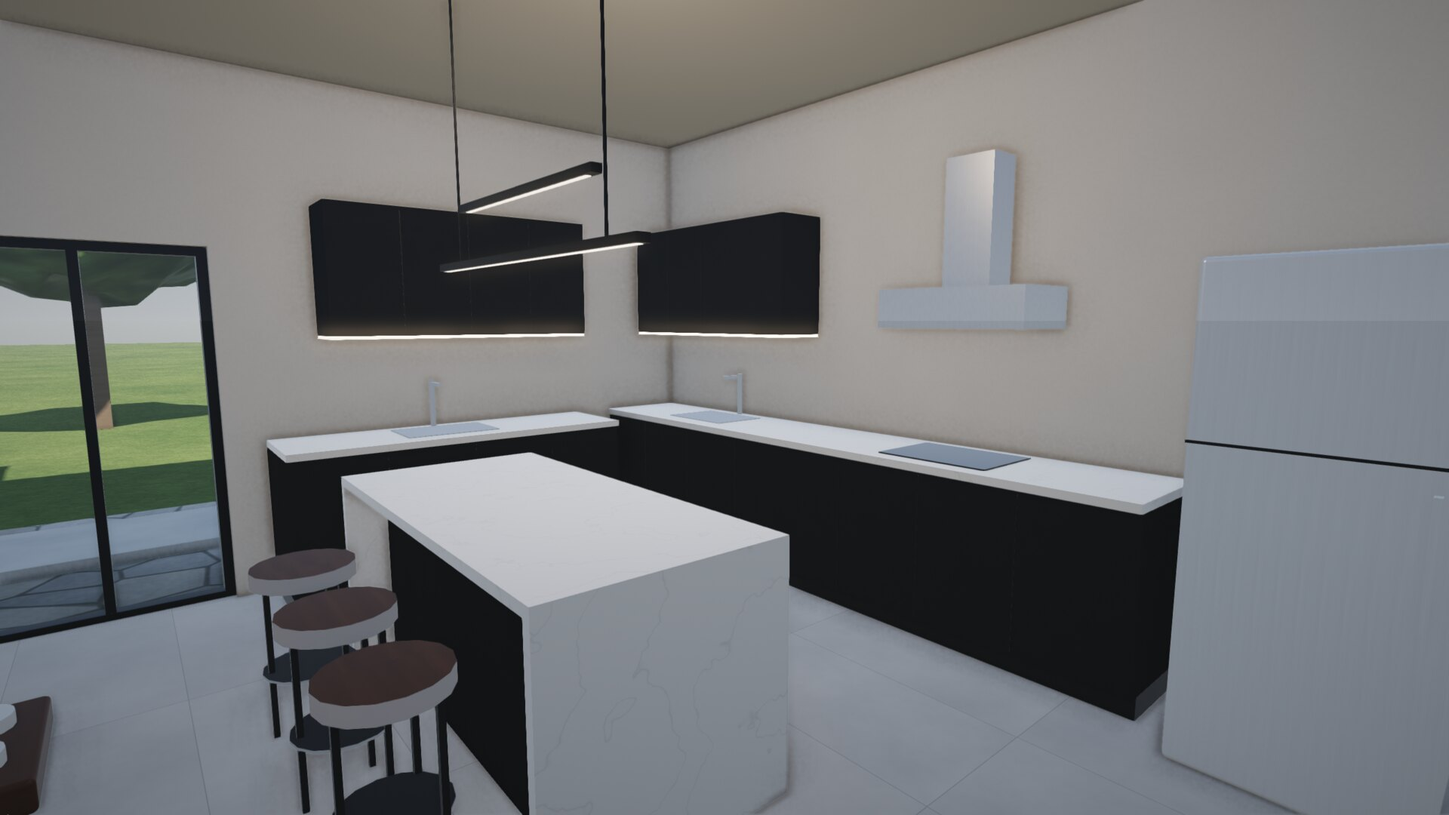
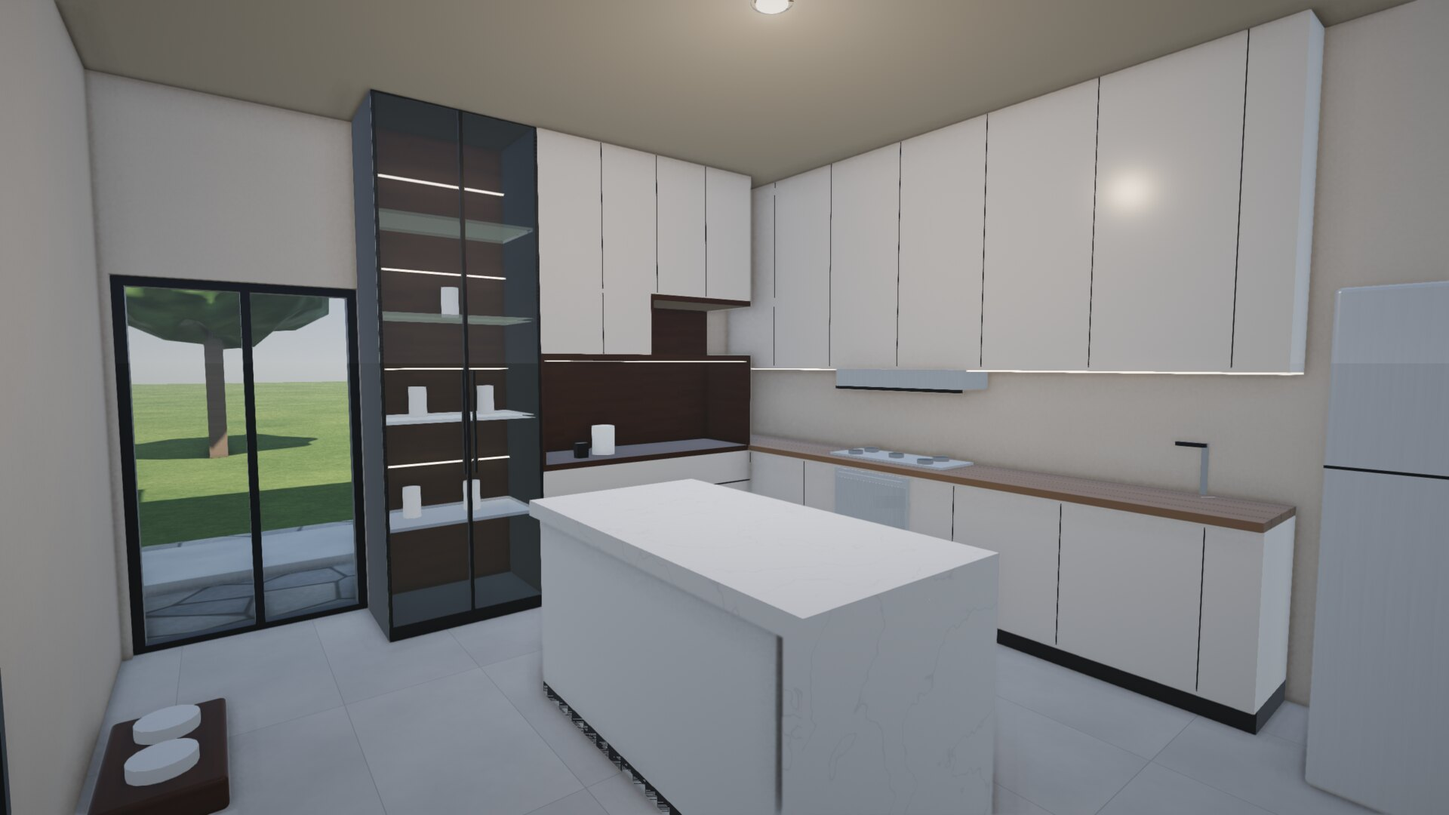
ครัวแบบใหม่โทนครีม: ตู้ชนฝ้า ท็อปโอ๊ค ช่องโชว์วอลนัท ตู้กระจกชา เกาะหินอ่อนน้ำตก + ภาพ งบใหม่
Claude-Session: https://claude.ai/code/session_013i3ffvjiePNLqy5JQb5Coc

diff --git a/ai.html b/ai.html
@@ -19,10 +19,10 @@ details{margin-top:8px;font-size:13.5px;color:#555}details p{line-height:1.5}a.b
 <details><summary>ดูคำสั่ง</summary><p>Transform this 3D render into a photorealistic architectural interior photograph. KEEP EXACTLY the same camera angle, room layout, wall and opening positions, furniture types, positions and proportions, and the same materials and colors — do not add, remove or move any object, do not change the architecture. Only upgrade realism: physically accurate soft natural daylight with global illumination and soft shadows, realistic textures and micro-detail, subtle reflections on glossy surfaces, warm 3000K accent lighting where LED strips exist, natural fabric folds, slight depth of field, shot on a full-frame camera with a 24mm lens at eye level, high-end interior design magazine style, 4K. No people, no text, no watermark. STYLE REFERENCE: the second attached image (style_reference.jpg) is ONLY a reference for lighting, colour grading, material realism and mood — warm soft daylight, gentle sun patches with soft leaf shadows on the floor, creamy warm tones, realistic plants. Do not copy its furniture, walls or layout. Living room TV wall: freestanding partition wall clad in white Calacatta-style marble with soft grey veining, wall-mounted black TV, low dark walnut floating console, greige panelled walls, large black-framed glass sliding doors, marble-look porcelain floor, L-shaped grey fabric sofa in the foreground.</p></details></article><article><h2>7. มุมบาร์</h2><a href="img/17_bar.jpg" download="17_bar.jpg"><img loading="lazy" src="img/17_bar.jpg" alt="มุมบาร์"></a>
 <div class="b"><a class="btn" href="img/17_bar.jpg" download="17_bar.jpg">บันทึกภาพ</a><button class="btn" data-p="Transform this 3D render into a photorealistic architectural interior photograph. KEEP EXACTLY the same camera angle, room layout, wall and opening positions, furniture types, positions and proportions, and the same materials and colors — do not add, remove or move any object, do not change the architecture. Only upgrade realism: physically accurate soft natural daylight with global illumination and soft shadows, realistic textures and micro-detail, subtle reflections on glossy surfaces, warm 3000K accent lighting where LED strips exist, natural fabric folds, slight depth of field, shot on a full-frame camera with a 24mm lens at eye level, high-end interior design magazine style, 4K. No people, no text, no watermark. STYLE REFERENCE: the second attached image (style_reference.jpg) is ONLY a reference for lighting, colour grading, material realism and mood — warm soft daylight, gentle sun patches with soft leaf shadows on the floor, creamy warm tones, realistic plants. Do not copy its furniture, walls or layout. Home bar corner: cream lacquered built-in bar cabinet with narrow open shelves holding liquor bottles, warm LED strips under every shelf, a white marble backsplash panel, brass handles and a small cream retro mini fridge; a curved cream fluted bar counter with a white marble top and brushed brass kick plate; three bar stools with cream boucle seats and brushed brass pedestal bases; a black metal ceiling-hung rack with wine bottles and hanging wine glasses; greige panelled walls; marble-look floor.">ก๊อปคำสั่ง</button></div>
 <details><summary>ดูคำสั่ง</summary><p>Transform this 3D render into a photorealistic architectural interior photograph. KEEP EXACTLY the same camera angle, room layout, wall and opening positions, furniture types, positions and proportions, and the same materials and colors — do not add, remove or move any object, do not change the architecture. Only upgrade realism: physically accurate soft natural daylight with global illumination and soft shadows, realistic textures and micro-detail, subtle reflections on glossy surfaces, warm 3000K accent lighting where LED strips exist, natural fabric folds, slight depth of field, shot on a full-frame camera with a 24mm lens at eye level, high-end interior design magazine style, 4K. No people, no text, no watermark. STYLE REFERENCE: the second attached image (style_reference.jpg) is ONLY a reference for lighting, colour grading, material realism and mood — warm soft daylight, gentle sun patches with soft leaf shadows on the floor, creamy warm tones, realistic plants. Do not copy its furniture, walls or layout. Home bar corner: cream lacquered built-in bar cabinet with narrow open shelves holding liquor bottles, warm LED strips under every shelf, a white marble backsplash panel, brass handles and a small cream retro mini fridge; a curved cream fluted bar counter with a white marble top and brushed brass kick plate; three bar stools with cream boucle seats and brushed brass pedestal bases; a black metal ceiling-hung rack with wine bottles and hanging wine glasses; greige panelled walls; marble-look floor.</p></details></article><article><h2>8. ซุ้มโค้งครัว</h2><a href="img/16_kitchen_arch.jpg" download="16_kitchen_arch.jpg"><img loading="lazy" src="img/16_kitchen_arch.jpg" alt="ซุ้มโค้งครัว"></a>
-<div class="b"><a class="btn" href="img/16_kitchen_arch.jpg" download="16_kitchen_arch.jpg">บันทึกภาพ</a><button class="btn" data-p="Transform this 3D render into a photorealistic architectural interior photograph. KEEP EXACTLY the same camera angle, room layout, wall and opening positions, furniture types, positions and proportions, and the same materials and colors — do not add, remove or move any object, do not change the architecture. Only upgrade realism: physically accurate soft natural daylight with global illumination and soft shadows, realistic textures and micro-detail, subtle reflections on glossy surfaces, warm 3000K accent lighting where LED strips exist, natural fabric folds, slight depth of field, shot on a full-frame camera with a 24mm lens at eye level, high-end interior design magazine style, 4K. No people, no text, no watermark. STYLE REFERENCE: the second attached image (style_reference.jpg) is ONLY a reference for lighting, colour grading, material realism and mood — warm soft daylight, gentle sun patches with soft leaf shadows on the floor, creamy warm tones, realistic plants. Do not copy its furniture, walls or layout. View from the kitchen through a 2.5 m wide plaster arch with a double black metal arch trim (black reveal plus two thin black outline bands) into the stair hall and dining room; two steps up in marble-look porcelain; black linear pendant light over the kitchen island; greige panelled walls; matte black kitchen cabinets with white quartz worktops; indoor plant in a cement pot.">ก๊อปคำสั่ง</button></div>
-<details><summary>ดูคำสั่ง</summary><p>Transform this 3D render into a photorealistic architectural interior photograph. KEEP EXACTLY the same camera angle, room layout, wall and opening positions, furniture types, positions and proportions, and the same materials and colors — do not add, remove or move any object, do not change the architecture. Only upgrade realism: physically accurate soft natural daylight with global illumination and soft shadows, realistic textures and micro-detail, subtle reflections on glossy surfaces, warm 3000K accent lighting where LED strips exist, natural fabric folds, slight depth of field, shot on a full-frame camera with a 24mm lens at eye level, high-end interior design magazine style, 4K. No people, no text, no watermark. STYLE REFERENCE: the second attached image (style_reference.jpg) is ONLY a reference for lighting, colour grading, material realism and mood — warm soft daylight, gentle sun patches with soft leaf shadows on the floor, creamy warm tones, realistic plants. Do not copy its furniture, walls or layout. View from the kitchen through a 2.5 m wide plaster arch with a double black metal arch trim (black reveal plus two thin black outline bands) into the stair hall and dining room; two steps up in marble-look porcelain; black linear pendant light over the kitchen island; greige panelled walls; matte black kitchen cabinets with white quartz worktops; indoor plant in a cement pot.</p></details></article><article><h2>9. ครัว</h2><a href="img/03_kitchen.jpg" download="03_kitchen.jpg"><img loading="lazy" src="img/03_kitchen.jpg" alt="ครัว"></a>
-<div class="b"><a class="btn" href="img/03_kitchen.jpg" download="03_kitchen.jpg">บันทึกภาพ</a><button class="btn" data-p="Transform this 3D render into a photorealistic architectural interior photograph. KEEP EXACTLY the same camera angle, room layout, wall and opening positions, furniture types, positions and proportions, and the same materials and colors — do not add, remove or move any object, do not change the architecture. Only upgrade realism: physically accurate soft natural daylight with global illumination and soft shadows, realistic textures and micro-detail, subtle reflections on glossy surfaces, warm 3000K accent lighting where LED strips exist, natural fabric folds, slight depth of field, shot on a full-frame camera with a 24mm lens at eye level, high-end interior design magazine style, 4K. No people, no text, no watermark. STYLE REFERENCE: the second attached image (style_reference.jpg) is ONLY a reference for lighting, colour grading, material realism and mood — warm soft daylight, gentle sun patches with soft leaf shadows on the floor, creamy warm tones, realistic plants. Do not copy its furniture, walls or layout. Modern kitchen: matte black lower and wall cabinets with warm under-cabinet LED, white quartz worktops, induction hob and stainless steel chimney hood, large white quartz island with waterfall ends and three bar stools with dark wood seats and black legs, black linear suspended LED pendant over the island, stainless steel fridge, light grey stone-look 60x120 floor tiles, warm white walls, black-framed glass sliding door to the garden.">ก๊อปคำสั่ง</button></div>
-<details><summary>ดูคำสั่ง</summary><p>Transform this 3D render into a photorealistic architectural interior photograph. KEEP EXACTLY the same camera angle, room layout, wall and opening positions, furniture types, positions and proportions, and the same materials and colors — do not add, remove or move any object, do not change the architecture. Only upgrade realism: physically accurate soft natural daylight with global illumination and soft shadows, realistic textures and micro-detail, subtle reflections on glossy surfaces, warm 3000K accent lighting where LED strips exist, natural fabric folds, slight depth of field, shot on a full-frame camera with a 24mm lens at eye level, high-end interior design magazine style, 4K. No people, no text, no watermark. STYLE REFERENCE: the second attached image (style_reference.jpg) is ONLY a reference for lighting, colour grading, material realism and mood — warm soft daylight, gentle sun patches with soft leaf shadows on the floor, creamy warm tones, realistic plants. Do not copy its furniture, walls or layout. Modern kitchen: matte black lower and wall cabinets with warm under-cabinet LED, white quartz worktops, induction hob and stainless steel chimney hood, large white quartz island with waterfall ends and three bar stools with dark wood seats and black legs, black linear suspended LED pendant over the island, stainless steel fridge, light grey stone-look 60x120 floor tiles, warm white walls, black-framed glass sliding door to the garden.</p></details></article><article><h2>10. ห้องทานอาหาร</h2><a href="img/04_dining.jpg" download="04_dining.jpg"><img loading="lazy" src="img/04_dining.jpg" alt="ห้องทานอาหาร"></a>
+<div class="b"><a class="btn" href="img/16_kitchen_arch.jpg" download="16_kitchen_arch.jpg">บันทึกภาพ</a><button class="btn" data-p="Transform this 3D render into a photorealistic architectural interior photograph. KEEP EXACTLY the same camera angle, room layout, wall and opening positions, furniture types, positions and proportions, and the same materials and colors — do not add, remove or move any object, do not change the architecture. Only upgrade realism: physically accurate soft natural daylight with global illumination and soft shadows, realistic textures and micro-detail, subtle reflections on glossy surfaces, warm 3000K accent lighting where LED strips exist, natural fabric folds, slight depth of field, shot on a full-frame camera with a 24mm lens at eye level, high-end interior design magazine style, 4K. No people, no text, no watermark. STYLE REFERENCE: the second attached image (style_reference.jpg) is ONLY a reference for lighting, colour grading, material realism and mood — warm soft daylight, gentle sun patches with soft leaf shadows on the floor, creamy warm tones, realistic plants. Do not copy its furniture, walls or layout. View from the kitchen through a 2.5 m wide plaster arch with a double black metal arch trim (black reveal plus two thin black outline bands) into the stair hall and dining room; two steps up in marble-look porcelain; cream kitchen with white marble island in the foreground (no pendant lights); greige panelled walls; indoor plant in a cement pot.">ก๊อปคำสั่ง</button></div>
+<details><summary>ดูคำสั่ง</summary><p>Transform this 3D render into a photorealistic architectural interior photograph. KEEP EXACTLY the same camera angle, room layout, wall and opening positions, furniture types, positions and proportions, and the same materials and colors — do not add, remove or move any object, do not change the architecture. Only upgrade realism: physically accurate soft natural daylight with global illumination and soft shadows, realistic textures and micro-detail, subtle reflections on glossy surfaces, warm 3000K accent lighting where LED strips exist, natural fabric folds, slight depth of field, shot on a full-frame camera with a 24mm lens at eye level, high-end interior design magazine style, 4K. No people, no text, no watermark. STYLE REFERENCE: the second attached image (style_reference.jpg) is ONLY a reference for lighting, colour grading, material realism and mood — warm soft daylight, gentle sun patches with soft leaf shadows on the floor, creamy warm tones, realistic plants. Do not copy its furniture, walls or layout. View from the kitchen through a 2.5 m wide plaster arch with a double black metal arch trim (black reveal plus two thin black outline bands) into the stair hall and dining room; two steps up in marble-look porcelain; cream kitchen with white marble island in the foreground (no pendant lights); greige panelled walls; indoor plant in a cement pot.</p></details></article><article><h2>9. ครัว</h2><a href="img/03_kitchen.jpg" download="03_kitchen.jpg"><img loading="lazy" src="img/03_kitchen.jpg" alt="ครัว"></a>
+<div class="b"><a class="btn" href="img/03_kitchen.jpg" download="03_kitchen.jpg">บันทึกภาพ</a><button class="btn" data-p="Transform this 3D render into a photorealistic architectural interior photograph. KEEP EXACTLY the same camera angle, room layout, wall and opening positions, furniture types, positions and proportions, and the same materials and colors — do not add, remove or move any object, do not change the architecture. Only upgrade realism: physically accurate soft natural daylight with global illumination and soft shadows, realistic textures and micro-detail, subtle reflections on glossy surfaces, warm 3000K accent lighting where LED strips exist, natural fabric folds, slight depth of field, shot on a full-frame camera with a 24mm lens at eye level, high-end interior design magazine style, 4K. No people, no text, no watermark. STYLE REFERENCE: the second attached image (style_reference.jpg) is ONLY a reference for lighting, colour grading, material realism and mood — warm soft daylight, gentle sun patches with soft leaf shadows on the floor, creamy warm tones, realistic plants. Do not copy its furniture, walls or layout. Kitchen in warm off-white: handleless cream lacquer base cabinets with a light natural oak worktop, built-in 4-burner gas hob and stainless built-in oven, undermount sink with matte black tap, full-height cream wall cabinets to the ceiling with a slim stainless hood and warm LED strip underneath; side wall of tall cream cabinets with an open walnut-lined niche (walnut backsplash and walnut shelf with warm LED), cream drawers below; a tall black-framed bronze-tinted glass display cabinet with lit glass shelves; island with cream base and a white Calacatta marble top with a single waterfall side; no bar stools, no pendant lights; light grey large-format floor tiles; black-framed glass sliding door to the garden; recessed downlights.">ก๊อปคำสั่ง</button></div>
+<details><summary>ดูคำสั่ง</summary><p>Transform this 3D render into a photorealistic architectural interior photograph. KEEP EXACTLY the same camera angle, room layout, wall and opening positions, furniture types, positions and proportions, and the same materials and colors — do not add, remove or move any object, do not change the architecture. Only upgrade realism: physically accurate soft natural daylight with global illumination and soft shadows, realistic textures and micro-detail, subtle reflections on glossy surfaces, warm 3000K accent lighting where LED strips exist, natural fabric folds, slight depth of field, shot on a full-frame camera with a 24mm lens at eye level, high-end interior design magazine style, 4K. No people, no text, no watermark. STYLE REFERENCE: the second attached image (style_reference.jpg) is ONLY a reference for lighting, colour grading, material realism and mood — warm soft daylight, gentle sun patches with soft leaf shadows on the floor, creamy warm tones, realistic plants. Do not copy its furniture, walls or layout. Kitchen in warm off-white: handleless cream lacquer base cabinets with a light natural oak worktop, built-in 4-burner gas hob and stainless built-in oven, undermount sink with matte black tap, full-height cream wall cabinets to the ceiling with a slim stainless hood and warm LED strip underneath; side wall of tall cream cabinets with an open walnut-lined niche (walnut backsplash and walnut shelf with warm LED), cream drawers below; a tall black-framed bronze-tinted glass display cabinet with lit glass shelves; island with cream base and a white Calacatta marble top with a single waterfall side; no bar stools, no pendant lights; light grey large-format floor tiles; black-framed glass sliding door to the garden; recessed downlights.</p></details></article><article><h2>10. ห้องทานอาหาร</h2><a href="img/04_dining.jpg" download="04_dining.jpg"><img loading="lazy" src="img/04_dining.jpg" alt="ห้องทานอาหาร"></a>
 <div class="b"><a class="btn" href="img/04_dining.jpg" download="04_dining.jpg">บันทึกภาพ</a><button class="btn" data-p="Transform this 3D render into a photorealistic architectural interior photograph. KEEP EXACTLY the same camera angle, room layout, wall and opening positions, furniture types, positions and proportions, and the same materials and colors — do not add, remove or move any object, do not change the architecture. Only upgrade realism: physically accurate soft natural daylight with global illumination and soft shadows, realistic textures and micro-detail, subtle reflections on glossy surfaces, warm 3000K accent lighting where LED strips exist, natural fabric folds, slight depth of field, shot on a full-frame camera with a 24mm lens at eye level, high-end interior design magazine style, 4K. No people, no text, no watermark. STYLE REFERENCE: the second attached image (style_reference.jpg) is ONLY a reference for lighting, colour grading, material realism and mood — warm soft daylight, gentle sun patches with soft leaf shadows on the floor, creamy warm tones, realistic plants. Do not copy its furniture, walls or layout. Dining room: white marble-top dining table for six with brass base and black upholstered chairs, brass linear pendant above, light greige panelled walls on all sides (no window on these walls), dark walnut sideboard with a framed art piece, marble-look porcelain floor, potted indoor plants.">ก๊อปคำสั่ง</button></div>
 <details><summary>ดูคำสั่ง</summary><p>Transform this 3D render into a photorealistic architectural interior photograph. KEEP EXACTLY the same camera angle, room layout, wall and opening positions, furniture types, positions and proportions, and the same materials and colors — do not add, remove or move any object, do not change the architecture. Only upgrade realism: physically accurate soft natural daylight with global illumination and soft shadows, realistic textures and micro-detail, subtle reflections on glossy surfaces, warm 3000K accent lighting where LED strips exist, natural fabric folds, slight depth of field, shot on a full-frame camera with a 24mm lens at eye level, high-end interior design magazine style, 4K. No people, no text, no watermark. STYLE REFERENCE: the second attached image (style_reference.jpg) is ONLY a reference for lighting, colour grading, material realism and mood — warm soft daylight, gentle sun patches with soft leaf shadows on the floor, creamy warm tones, realistic plants. Do not copy its furniture, walls or layout. Dining room: white marble-top dining table for six with brass base and black upholstered chairs, brass linear pendant above, light greige panelled walls on all sides (no window on these walls), dark walnut sideboard with a framed art piece, marble-look porcelain floor, potted indoor plants.</p></details></article><article><h2>11. โถงบันได</h2><a href="img/11_stair_hall.jpg" download="11_stair_hall.jpg"><img loading="lazy" src="img/11_stair_hall.jpg" alt="โถงบันได"></a>
 <div class="b"><a class="btn" href="img/11_stair_hall.jpg" download="11_stair_hall.jpg">บันทึกภาพ</a><button class="btn" data-p="Transform this 3D render into a photorealistic architectural interior photograph. KEEP EXACTLY the same camera angle, room layout, wall and opening positions, furniture types, positions and proportions, and the same materials and colors — do not add, remove or move any object, do not change the architecture. Only upgrade realism: physically accurate soft natural daylight with global illumination and soft shadows, realistic textures and micro-detail, subtle reflections on glossy surfaces, warm 3000K accent lighting where LED strips exist, natural fabric folds, slight depth of field, shot on a full-frame camera with a 24mm lens at eye level, high-end interior design magazine style, 4K. No people, no text, no watermark. STYLE REFERENCE: the second attached image (style_reference.jpg) is ONLY a reference for lighting, colour grading, material realism and mood — warm soft daylight, gentle sun patches with soft leaf shadows on the floor, creamy warm tones, realistic plants. Do not copy its furniture, walls or layout. Stair hall: floating dark walnut staircase with closed risers and black metal balustrade, black baby safety gate at the bottom, greige panelled walls with thin black door frames, view through the black-trimmed plaster arch into the kitchen, marble-look floor, indoor plant in the corner.">ก๊อปคำสั่ง</button></div>

diff --git a/index.html b/index.html
@@ -186,7 +186,7 @@ footer .wrap{display:flex;flex-wrap:wrap;gap:8px 28px;justify-content:space-betw
   </div>
   <div class="scroll"><table class="rooms" style="margin-top:26px"><thead><tr><th>ห้อง</th><th>การใช้งาน</th><th>วัสดุและจุดเด่น</th><th>ความปลอดภัย</th></tr></thead><tbody>
     <tr><td>ห้องรับแขก</td><td>โซฟาตัวแอล 270 ซม. หันเข้าผนังทีวี เปิดออกเฉลียงผ่านประตู 5.50 ม.</td><td>ผนังทีวีหินอ่อน · พื้นกระเบื้องลายหินอ่อน 60×120 · โต๊ะกลางหินอ่อนขาทองเหลือง</td><td>โต๊ะกลมขอบมน · ยึดทีวีและตู้ติดผนัง · ที่นอนสัตว์เลี้ยงริมแดด</td></tr>
-    <tr><td>ครัว</td><td>เคาน์เตอร์ตัวแอล + เกาะกลาง 3 ที่นั่ง</td><td>ตู้ดำด้าน · ท็อปควอตซ์ลายหินอ่อน · ไฟ LED ใต้ตู้แขวน</td><td>เตาแม่เหล็กไฟฟ้า (ไม่มีเปลวไฟ) · มุมให้อาหารสัตว์เลี้ยงนอกทางเดิน</td></tr>
+    <tr><td>ครัว</td><td>ชุดครัวผนังหลัง 3.80 ม. + ผนังตู้ช่องโชว์ + ตู้โชว์กระจก + เกาะกลาง</td><td>ตู้ครีมไร้มือจับสูงชนฝ้า · ท็อปไม้โอ๊ค · ช่องโชว์บุไม้วอลนัทมีไฟ · ตู้กระจกชาโครงดำ · เกาะท็อปหินอ่อนน้ำตก · เตาแก๊ส + เตาอบฝัง</td><td>ลิ้นชักล็อกกันเด็ก · ที่ให้อาหารสัตว์ข้างผนัง</td></tr>
     <tr><td>ทานอาหาร</td><td>โต๊ะ 6 ที่ ใต้เพดานสูง 2 ชั้น</td><td>ผนังแบ่งแผงโทน Greige ทุกด้าน · ท็อปหินอ่อนขอบมน · โคมไฟห้อย LED ทองเหลือง</td><td>มุมโต๊ะโค้งรัศมี 6 ซม.</td></tr>
     <tr><td>โถง / บันได</td><td>ทางขึ้นชั้น 2</td><td>ลูกนอนไม้วอลนัท · ราวกระจก</td><td>ประตูกั้นบันไดบนและล่าง · ปิดช่องลูกตั้งช่วงบน</td></tr>
     <tr><td>ห้องนอนใหญ่</td><td>เตียง 6 ฟุต · โต๊ะเครื่องแป้ง · มุมนั่งริมระเบียง</td><td>ผนังหัวเตียงไม้วอลนัท · พื้น SPC ลายวอลนัท</td><td>ราวกระจกระเบียงสูง 1.05 ม. ไม่วางเฟอร์นิเจอร์ที่ปีนได้ชิดราว</td></tr>
@@ -253,9 +253,9 @@ footer .wrap{display:flex;flex-wrap:wrap;gap:8px 28px;justify-content:space-betw
   <h2>งบประมาณ 3 ระดับ สร้างเสร็จในราว 10 เดือน</h2>
   <p class="lead">ราคารวมงานตกแต่งภายใน ค่าดำเนินการ 12% ค่าเผื่อ 5% และ VAT 7% แล้ว อ้างอิงราคา พ.ย. 2569 จาก BOQ ฉบับเต็ม</p>
   <div class="tiers">
-    <div><span>Standard</span><b>≈ 4.10 ล้าน</b><p>≈ 20,300 บาท/ตร.ม. · กระเบื้อง 60×60 ทั้งบ้าน ผนังทาสี ไม่มีผนังหินและไม้ตกแต่ง</p></div>
-    <div><span>Premium</span><b>≈ 5.07 ล้าน</b><p>≈ 25,100 บาท/ตร.ม. · พื้น 60×120 ชั้นล่าง ผนังไม้เฉพาะหัวเตียง สุขภัณฑ์รุ่นกลาง</p></div>
-    <div class="on"><span>Luxury · ตามโมเดล</span><b>≈ 6.02 ล้าน</b><p>≈ 29,800 บาท/ตร.ม. · ตัวบ้าน ≈ 4.67 ล้าน + ตกแต่งภายใน บาร์ และเฟอร์นิเจอร์ ≈ 1.35 ล้าน</p></div>
+    <div><span>Standard</span><b>≈ 4.12 ล้าน</b><p>≈ 20,400 บาท/ตร.ม. · กระเบื้อง 60×60 ทั้งบ้าน ผนังทาสี ไม่มีผนังหินและไม้ตกแต่ง</p></div>
+    <div><span>Premium</span><b>≈ 5.09 ล้าน</b><p>≈ 25,200 บาท/ตร.ม. · พื้น 60×120 ชั้นล่าง ผนังไม้เฉพาะหัวเตียง สุขภัณฑ์รุ่นกลาง</p></div>
+    <div class="on"><span>Luxury · ตามโมเดล</span><b>≈ 6.06 ล้าน</b><p>≈ 30,000 บาท/ตร.ม. · ตัวบ้าน ≈ 4.67 ล้าน + ตกแต่งภายใน บาร์ และเฟอร์นิเจอร์ ≈ 1.39 ล้าน</p></div>
   </div>
   <h3 style="margin-top:34px">แผนงานก่อสร้าง</h3>
   <div class="gantt" id="gantt"></div>
@@ -279,6 +279,7 @@ footer .wrap{display:flex;flex-wrap:wrap;gap:8px 28px;justify-content:space-betw
       <li><b>มุมบาร์ในห้องรับแขก</b>ตู้บาร์สีครีมชั้นโชว์ขวด 2.60 ม. เคาน์เตอร์โค้งท็อปหินอ่อน 2.30 ม. สตูล 3 ตัว ราวแขวนแก้วห้อยฝ้า · ผนังกั้นยาว 2.80 ม. แยกบาร์ออกจากมุมนั่งเล่น ติดทีวีบนผนังกั้นฝั่งห้องรับแขก ผิวหินอ่อนทั้ง 2 ด้าน</li>
       <li><b>ผสมสไตล์ Greige + กรอบดำ</b>ซุ้มโค้งกรอบดำ 2 ชั้น · ผนังห้องรับแขก โถง ห้องทานอาหารโทนเทาอมน้ำตาลแบ่งแผง · วงกบประตูกรอบดำ · โคมเส้นดำเหนือเกาะครัว · ไฟเส้นฝังฝ้า · ตู้เสื้อผ้ากระจกกรอบดำห้องนอนใหญ่</li>
       <li><b>ห้องทานอาหาร</b>เอาหน้าต่างออก ผนังทั้งห้องเป็นแผงโทน Greige (เดิมผนังไม้วอลนัท) · รับแสงจากประตูกระจกบานเลื่อนฝั่งลานบ้าน</li>
+      <li><b>ครัวแบบใหม่โทนครีม</b>ตู้ครีมไร้มือจับสูงชนฝ้า ท็อปไม้โอ๊ค เตาแก๊สและเตาอบฝัง · ผนังตู้ด้านข้างมีช่องโชว์บุไม้วอลนัทพร้อมไฟ · ตู้โชว์กระจกชาโครงดำ · เกาะกลางท็อปหินอ่อนน้ำตก (ไม่มีสตูลและโคมห้อย)</li>
     </ol><p class="note">ยืนยันแบบเมื่อ 23 พ.ย. 2569 · แก้หน้าต่างครัวและห้องรับแขก 25 พ.ย. 2569</p></div>
   </div>
 </div></section>

diff --git a/studio.html b/studio.html
@@ -392,6 +392,26 @@ const CAT={
    for(let i=0;i<7;i++){const x=-.7+i*.1;b(x,1.0,-.18,x+.05,1.78,.18,i%2?M.linen:M.pillow);}for(let i=0;i<6;i++){const x=.1+i*.1;b(x,.95,-.18,x+.05,1.78,.18,i%2?M.dark:M.linen);}
    b(-.6,1.97,-.15,-.15,2.2,.15,M.linen);b(.2,1.97,-.15,.6,2.18,.15,M.dark);b(-.6,.08,-.2,-.1,.3,.2,M.linen);b(.15,.08,-.2,.65,.25,.2,M.pillow);
    b(-.8,0,.29,.8,2.4,.3,M.glass);for(const x of[-.8,-.02,.76])b(x,0,.285,x+.04,2.4,.31,K);for(const y of[0,2.36])b(-.8,y,.285,.8,y+.04,.31,K);b(-.06,1.0,.31,-.05,1.4,.33,M.brass);b(.05,1.0,.31,.06,1.4,.33,M.brass);}},
+
+ krun:{n:'ชุดครัวครีม ตู้สูงชนฝ้า ท็อปไม้โอ๊ค เตาแก๊ส+เตาอบ 380 ซม.',g:'ครัว',f(b,c,o){const W=21,L=1.9,top=o.ceil,OK=M.deck,K=M.blackm,S=M.steel;
+   b(-L,0,-.3,L,.1,.26,M.dark);b(-L,.1,-.3,L,.86,.3,W);for(let x=-L+.6;x<L;x+=.6)b(x-.002,.12,.3,x+.002,.84,.302,K);
+   b(-L,.86,-.3,L,.9,.32,OK);b(-.4,.42,.3,.2,.84,.31,S);b(-.38,.44,.31,.18,.78,.315,M.glass);b(-.36,.8,.31,.16,.815,.33,S);for(const x of[-.3,-.15,0,.15])c(x,.82,.315,.018,.84,S);
+   b(-.55,.9,-.15,.35,.915,.2,S);for(const[x,z]of[[-.38,-.05],[.18,-.05],[-.38,.12],[.18,.12],[-.1,.04]])c(x,.915,z,.05,.94,K);
+   b(1.15,.88,-.15,1.65,.9,.18,S);c(1.55,.9,-.2,.015,1.15,K);b(1.43,1.13,-.2,1.56,1.15,-.17,K);
+   b(-L,1.5,-.3,L,top,.05,W);for(let x=-L+.6;x<L;x+=.6)b(x-.002,1.52,.05,x+.002,top-.02,.052,K);b(-L,1.49,-.25,L,1.5,.04,23);
+   b(-.6,1.38,-.3,.4,1.5,.08,S);b(-.6,1.36,.07,.4,1.38,.09,K);}},
+ kniche:{n:'ผนังตู้ครีม + ช่องโชว์ไม้วอลนัทมีไฟ 170 ซม.',g:'ครัว',f(b,c,o){const W=21,top=o.ceil,WN=M.woodf,K=M.blackm,L=.85;
+   b(-L,0,-.3,L,.08,.25,M.dark);for(const[y0,y1]of[[.08,.36],[.37,.62],[.63,.86]])b(-L,y0,-.3,L,y1,.3,W);for(const y of[.36,.62])b(-L,y,.3,L,y+.01,.302,K);
+   b(-L,.86,-.3,L,.9,.3,WN);b(-L,.9,-.3,L,1.56,-.27,WN);b(-L,.9,-.27,-L+.02,1.56,.3,WN);b(L-.02,.9,-.27,L,1.56,.3,WN);b(-L,1.56,-.3,L,1.6,.3,WN);b(-L+.02,1.55,.05,L-.02,1.556,.28,23);
+   b(-.05,1.6,-.3,L,2.0,-.27,WN);b(-.05,1.6,-.27,-.03,2.0,.3,WN);b(-.05,1.98,-.3,L,2.02,.3,WN);b(-.03,1.995,.05,L-.02,2.0,.28,23);b(-L,1.6,-.3,-.05,2.02,.3,W);
+   b(-L,2.02,-.3,L,top,.3,W);for(const x of[-.42,0,.42])b(x-.002,2.03,.3,x+.002,top-.02,.302,K);b(-.42-.002,1.6,.3,-.42+.002,2.0,.302,K);
+   b(-.55,.9,.1,-.47,1.0,.16,K);c(-.3,.9,.05,.08,1.1,M.pot);}},
+ kglass:{n:'ตู้โชว์สูงกระจกชาโครงดำ มีไฟ 90 ซม.',g:'ครัว',f(b,c,o){const top=o.ceil,K=M.blackm,WN=M.woodf,L=.45;
+   b(-L,0,-.3,L,top,-.27,WN);b(-L,0,-.3,-L+.02,top,.3,K);b(L-.02,0,-.3,L,top,.3,K);b(-L,0,-.3,L,.08,.3,K);b(-L,top-.03,-.3,L,top,.3,K);
+   for(const y of[.6,1.2,1.8,2.35])b(-L+.02,y,-.27,L-.02,y+.02,.26,M.glass),b(-L+.04,y+.30,-.2,L-.04,y+.31,-.17,23);
+   for(const[x,y]of[[-.25,.62],[.1,.62],[-.2,1.22],[.2,1.22],[0,1.82]])c(x,y,0,.05,y+.18,M.pot);
+   b(-L,.08,.29,L,top-.03,.3,M.glass);b(-.01,.08,.28,.01,top-.03,.31,K);for(const x of[-.03,.03])b(x-.006,.9,.31,x+.006,1.5,.34,K);}},
+ islandw:{n:'เกาะกลางท็อปหินอ่อนน้ำตกข้างเดียว 180×90',g:'ครัว',f(b){b(-.85,0,-.4,.75,.85,.4,21);b(-.85,.85,-.45,.9,.92,.45,M.top);b(.83,0,-.45,.9,.85,.45,M.top);b(-.85,.0,-.4,.75,.06,.4,M.dark);}},
  island:{n:'เกาะกลางครัว + สตูล 3 ตัว',g:'ครัว',f(b,c){b(-.9,0,-.42,.9,.86,.28,M.furn);b(-.95,.86,-.45,.95,.9,.45,M.top);b(-.95,0,-.45,-.91,.86,.45,M.top);b(.91,0,-.45,.95,.86,.45,M.top);
    for(const x of[-.55,0,.55]){c(x,.6,.68,.18,.66,M.woodf);for(const[dx,dz]of[[-.12,-.1],[.12,-.1],[0,.13]])b(x+dx-.01,0,.68+dz-.01,x+dx+.01,.6,.68+dz+.01,M.blackm);c(x,.25,.68,.16,.26,M.blackm);}}},
  shoe:{n:'ตู้รองเท้า 160 ซม.',g:'ของตกแต่ง',f(b){b(-.8,.1,-.17,.8,.95,.17,M.woodf,.008);for(const x of[-.4,0,.4])b(x-.002,.12,.17,x+.002,.93,.173,M.blackm);b(-.78,0,-.15,.78,.1,.12,M.blackm);}},
@@ -420,7 +440,7 @@ const CAT={
 const ITEMS0=[
  ['lsofa',13.4,2.0,1,1],['coffeeR',11.55,1.75,0,1],['rug',12.0,2.0,1,1],['tv',9.87,1.5,3,1],['barback',6.73,1.4,3,1],['barcounter',8.05,1.4,3,1],['barrack',8.05,1.4,3,1],['barstool',8.75,.7,1,1],['barstool',8.75,1.4,1,1],['barstool',8.75,2.1,1,1],['sideR',14.35,.55,0,1],['lampf',12.35,.35,0,1],
  ['art',15.78,2.1,1,1],['plant',15.4,.6,0,1],['plant2',7.05,3.95,0,1],['petbed',15.25,3.6,0,1],
- ['counter',2.2,.5,0,1],['counterhob',4.05,.5,0,1],['counter',1.5,2.1,3,1],['wallcab',2.05,.5,0,1],['wallcab',1.5,2.0,3,1],['fridge',5.55,.58,0,1],['island',3.5,2.55,0,1],['pendline',3.5,2.55,0,1],['ledline',11.2,2.0,1,1],['petfeed',2.6,4.2,2,1],
+ ['fridge',5.55,.58,0,1],['krun',3.1,.4,0,1],['kniche',1.5,1.55,3,1],['kglass',1.5,2.85,3,1],['islandw',3.7,2.45,0,1],['ledline',11.2,2.0,1,1],['petfeed',2.6,4.2,2,1],
  ['shoe',6.12,7.4,1,1],['plant',6.15,5.95,0,1],['gate',3.55,4.98,1,1],['toilet',.5,6.7,3,1],['vanity',.45,7.9,3,1],
  ['dining',3.2,11.1,0,1],['pendant',3.2,11.1,0,1],['side',.42,13.45,3,1],['art',.22,13.4,3,1],['plant2',.6,9.0,0,1],['plant',5.7,14.1,0,1],
  ['lounge',8.6,5.7,2,1],['lounge',9.9,5.7,2,1],
